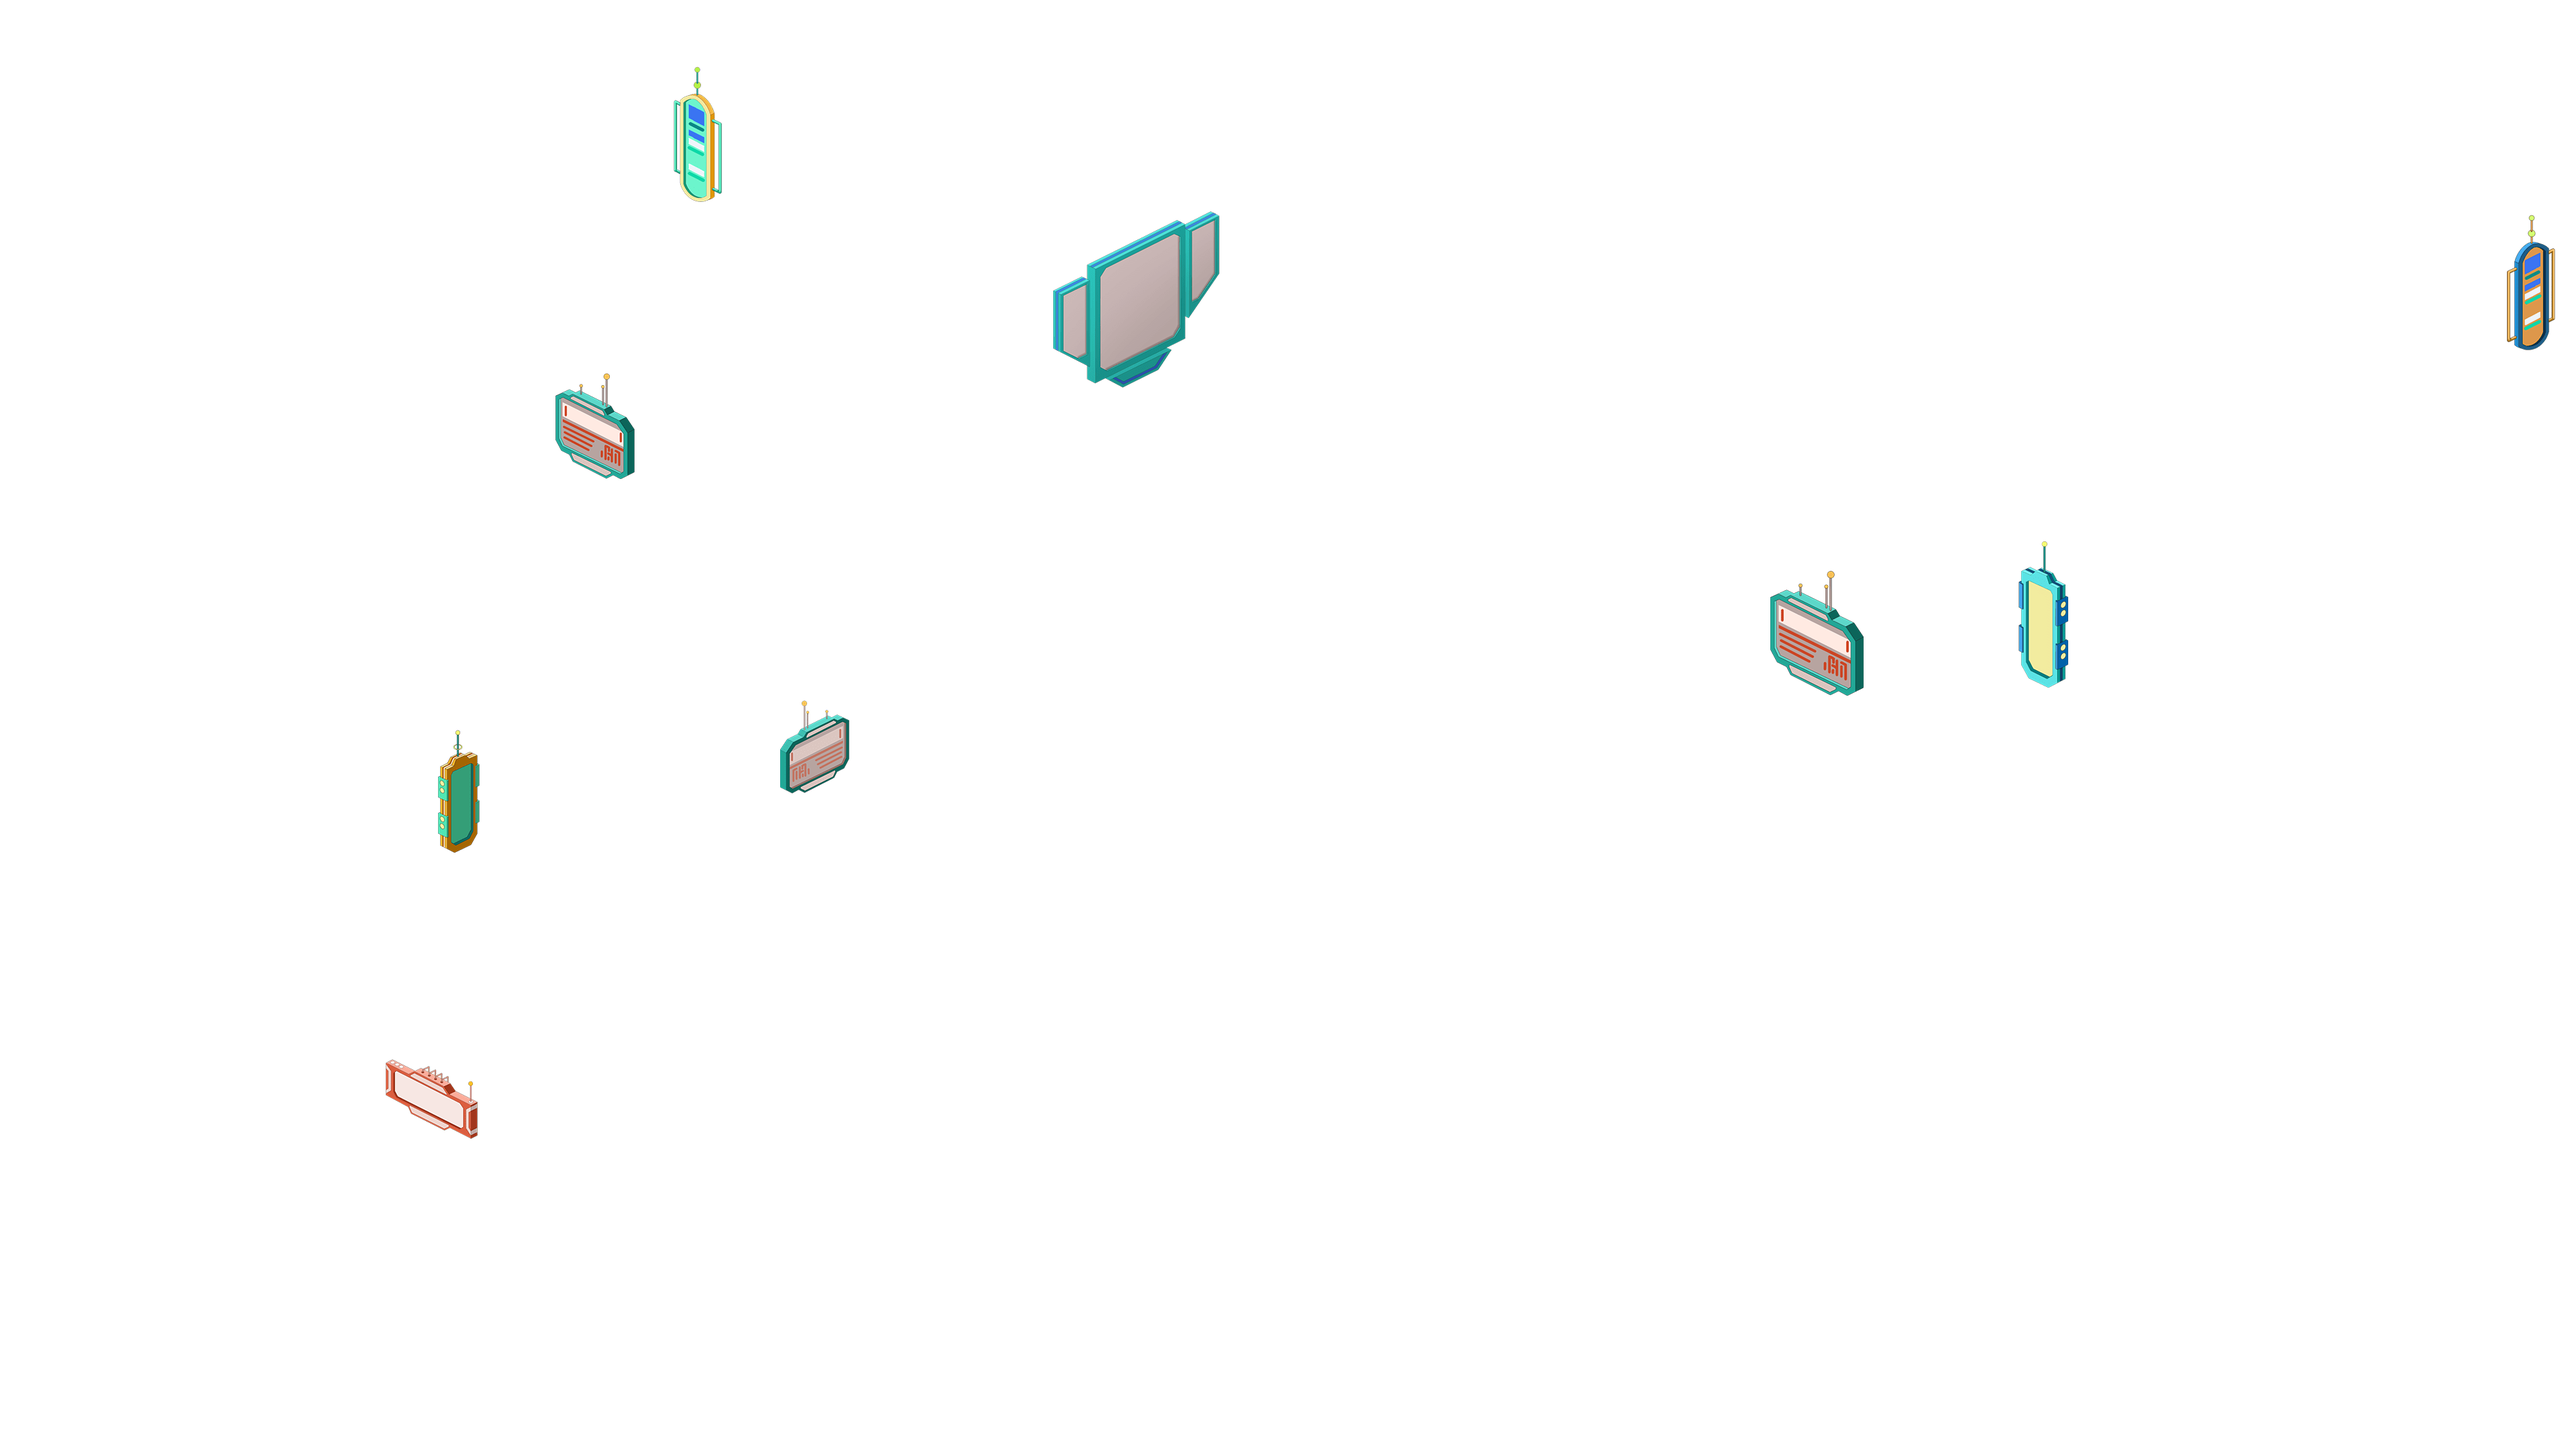
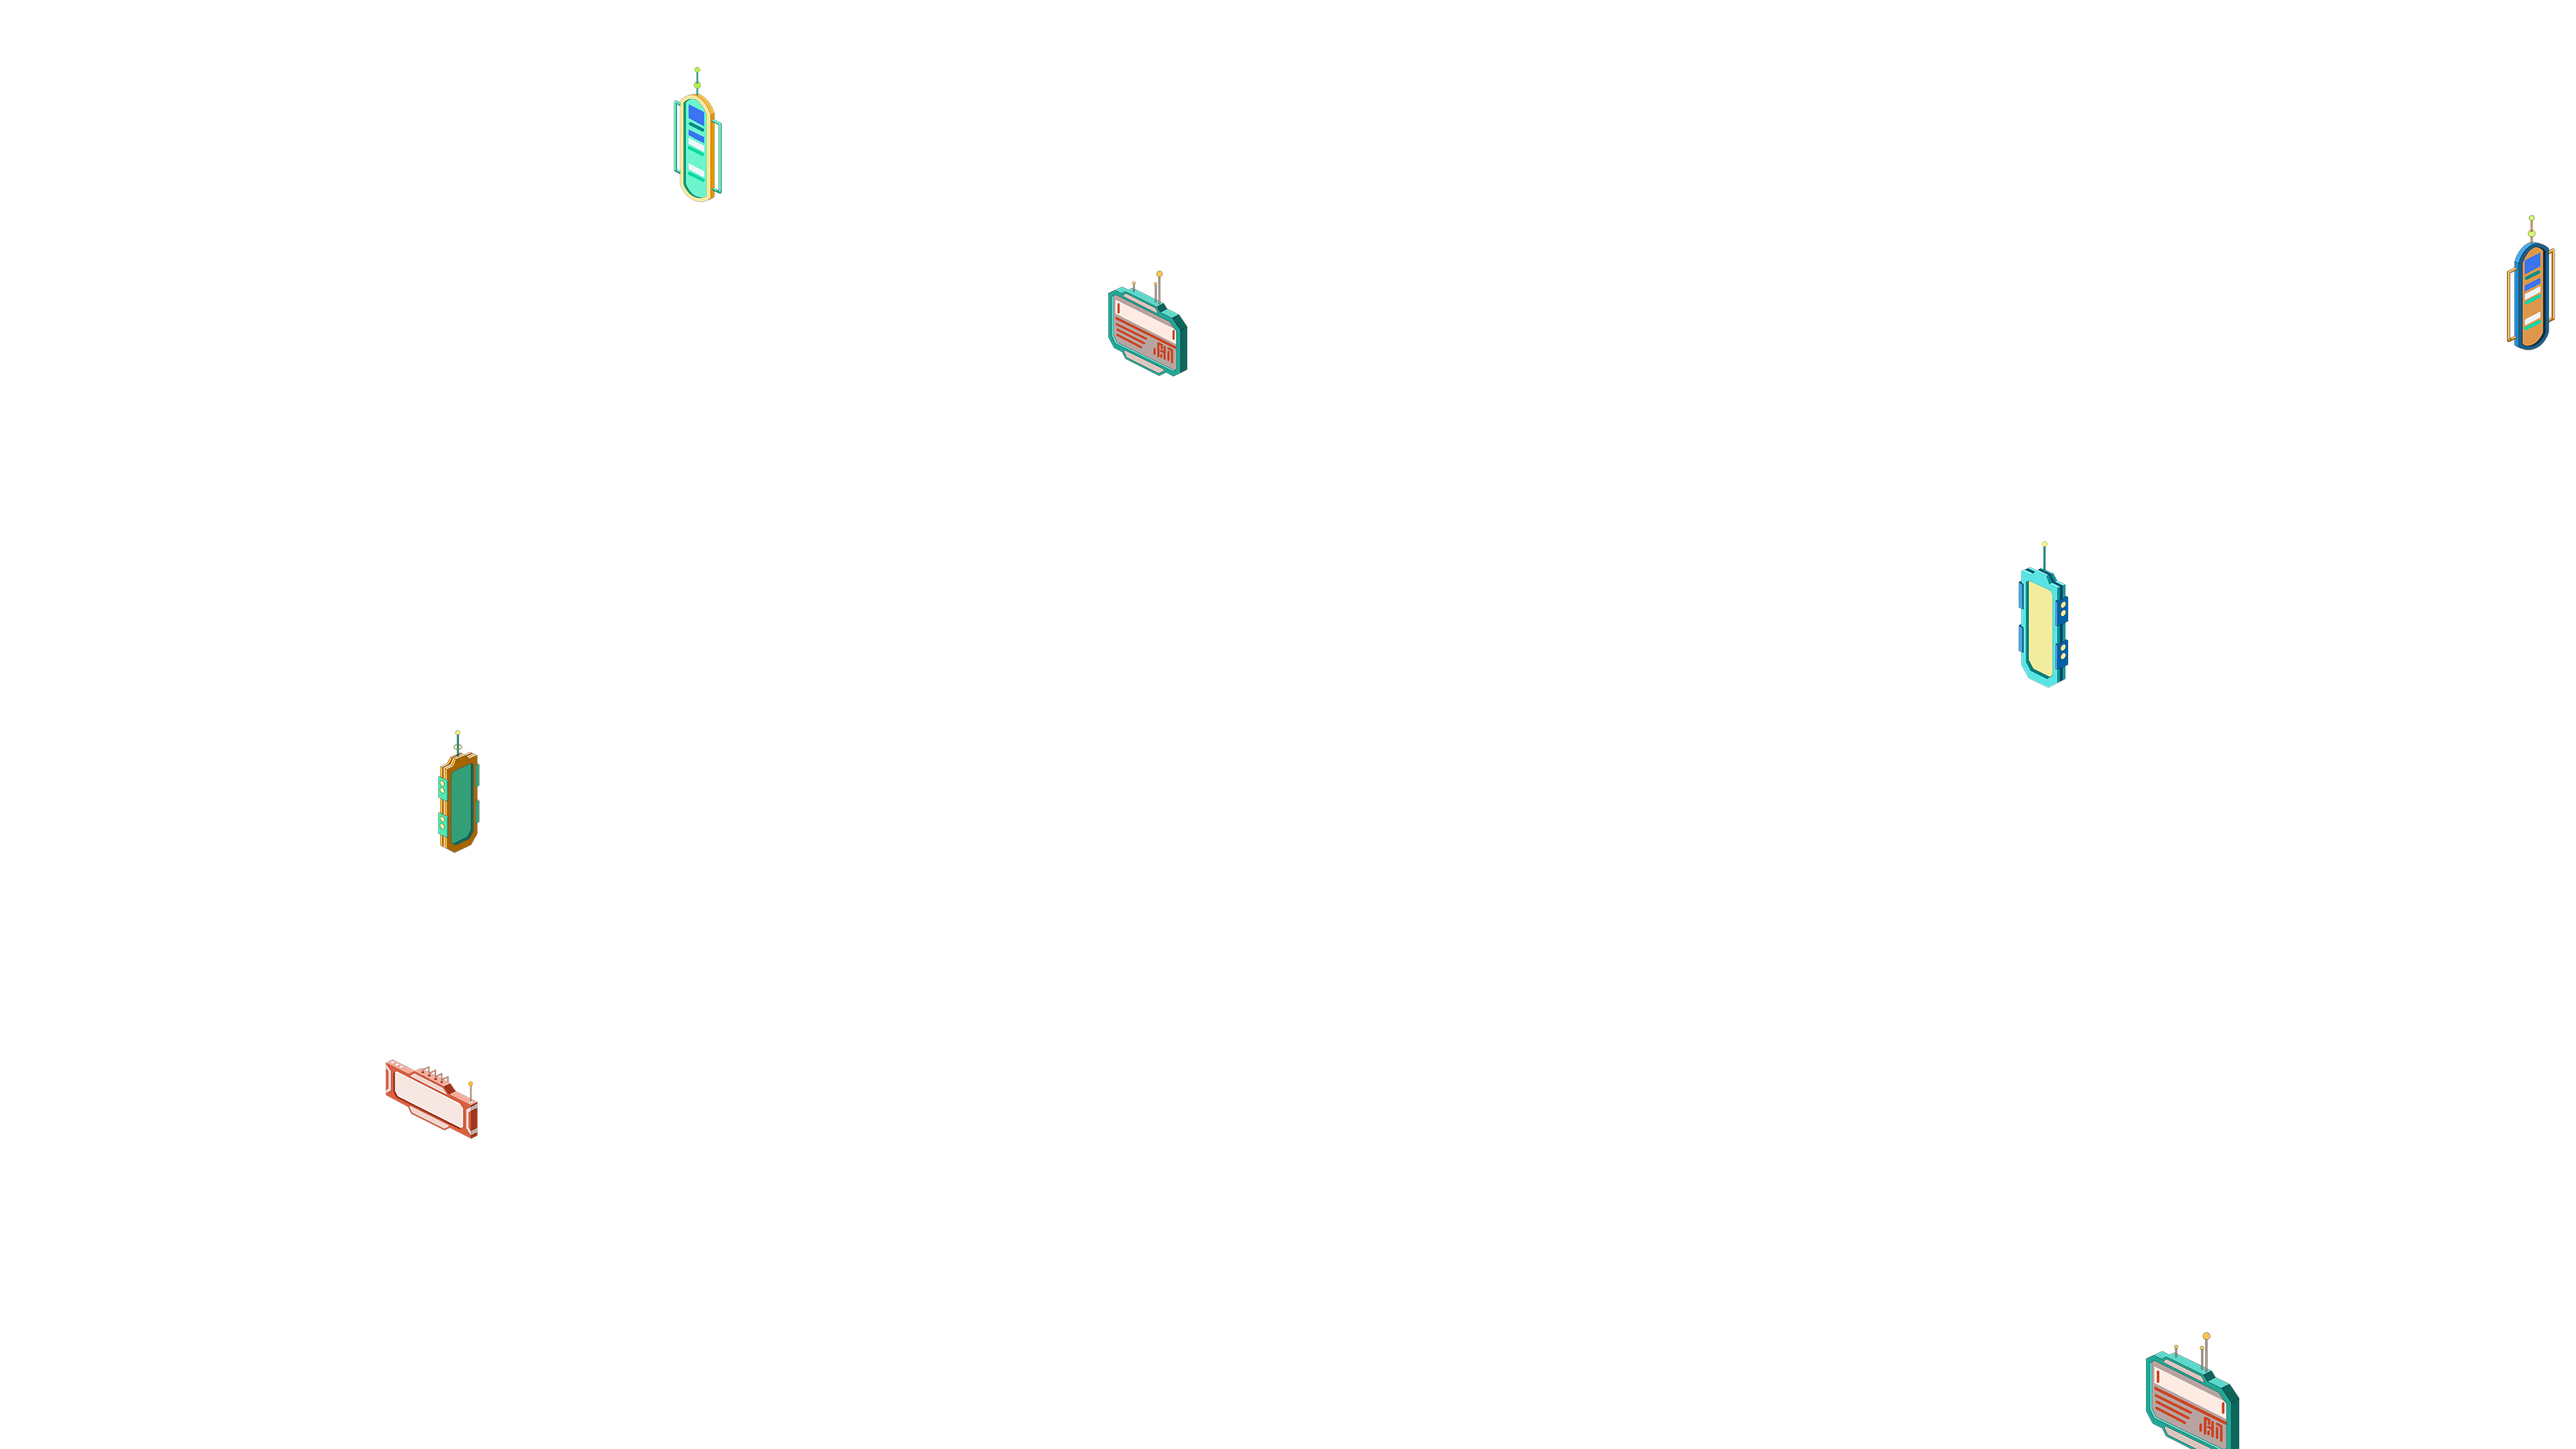
added new cars

diff --git a/src/components/cars/keyframes.ts b/src/components/cars/keyframes.ts
@@ -1,7 +1,14 @@
-import topLeftBg from './topLeft.png';
-import topRightBg from './topRight.png';
-import bottomLeftBg from './bottomLeft.png';
-import bottomRightBg from './bottomRight.png';
+import whiteTopLeft from './whiteTopLeft.png';
+import whiteBottomRight from './whiteBottomRight.png';
+import redTopLeft from './redTopLeft.png';
+import redTopRight from './redTopRight.png';
+import redBottomLeft from './redBottomLeft.png';
+import redBottomRight from './redBottomRight.png';
+import greenTopLeft from './greenTopLeft.png';
+import greenTopRight from './greenTopRight.png';
+import greenBottomLeft from './greenBottomLeft.png';
+import greenBottomRight from './greenBottomRight.png';
+
 import { keyframes } from 'styled-components';
 
 const keyframesCreator = (iterationsArray: IiterationsArray[]) => {
@@ -42,143 +49,143 @@ const keyframesCreator = (iterationsArray: IiterationsArray[]) => {
 };
 
 const iterationsForCarOne = [
-  { animation: [`background: url(${topRightBg}) no-repeat center;`] },
+  { animation: [`background: url(${redTopRight}) no-repeat center;`] },
   {
-    animation: [`background: url(${topRightBg}) no-repeat center;`],
+    animation: [`background: url(${redTopRight}) no-repeat center;`],
     transition: true,
   },
   {
     animation: [
       `transform: translate3d(1275px, -638px, 0);`,
-      `background: url(${bottomRightBg}) no-repeat center;`,
+      `background: url(${redBottomRight}) no-repeat center;`,
     ],
   },
   {
-    animation: [`background: url(${bottomRightBg}) no-repeat center;`],
+    animation: [`background: url(${redBottomRight}) no-repeat center;`],
     transition: true,
   },
   {
     animation: [
       `transform: translate3d(1550px, -500px, 0);`,
-      `background: url(${topRightBg}) no-repeat center;`,
+      `background: url(${redTopRight}) no-repeat center;`,
     ],
   },
   {
-    animation: [`background: url(${topRightBg}) no-repeat center;`],
+    animation: [`background: url(${redTopRight}) no-repeat center;`],
     transition: true,
   },
   {
     animation: [
       `transform: translate3d(1960px, -695px, 0);`,
-      `background: url(${bottomLeftBg}) no-repeat center;`,
+      `background: url(${redBottomLeft}) no-repeat center;`,
     ],
   },
   {
-    animation: [`background: url(${bottomLeftBg}) no-repeat center;`],
+    animation: [`background: url(${redBottomLeft}) no-repeat center;`],
     transition: true,
   },
 
   {
     animation: [
       `transform: translate3d(1550px, -500px, 0);`,
-      `background: url(${topLeftBg}) no-repeat center;`,
+      `background: url(${redTopLeft}) no-repeat center;`,
     ],
   },
   {
-    animation: [`background: url(${topLeftBg}) no-repeat center;`],
+    animation: [`background: url(${redTopLeft}) no-repeat center;`],
     transition: true,
   },
 
   {
     animation: [
       `transform: translate3d(1275px, -638px, 0);`,
-      `background: url(${bottomLeftBg}) no-repeat center;`,
+      `background: url(${redBottomLeft}) no-repeat center;`,
     ],
   },
 
   {
     animation: [
       `transform: translate3d(0, 0, 0);`,
-      `background: url(${bottomLeftBg}) no-repeat center;`,
+      `background: url(${redBottomLeft}) no-repeat center;`,
     ],
   },
 ];
 
 const iterationsForCarTwo = [
-  { animation: [`background: url(${topLeftBg}) no-repeat center`] },
+  { animation: [`background: url(${whiteTopLeft}) no-repeat center`] },
   {
-    animation: [`background: url(${topLeftBg}) no-repeat center`],
+    animation: [`background: url(${whiteTopLeft}) no-repeat center`],
     transition: true,
   },
   {
     animation: [
       `transform: translate3d(-1995px,-997px, 0px);`,
-      `background: url(${bottomRightBg}) no-repeat center;`,
+      `background: url(${whiteBottomRight}) no-repeat center;`,
     ],
   },
   {
     animation: [
       `transform:translate3d(0, 0, 0);`,
-      `background: url(${bottomRightBg}) no-repeat center;`,
+      `background: url(${whiteBottomRight}) no-repeat center;`,
     ],
   },
 ];
 
 const iterationsForCarThree = [
-  { animation: [`background: url(${topLeftBg}) no-repeat center;`] },
+  { animation: [`background: url(${greenTopLeft}) no-repeat center;`] },
   {
-    animation: [`background: url(${topLeftBg}) no-repeat center;`],
+    animation: [`background: url(${greenTopLeft}) no-repeat center;`],
     transition: true,
   },
   {
     animation: [
       `transform: translate3d(-486px,-248px, 0);`,
-      `background: url(${topRightBg}) no-repeat center;`,
+      `background: url(${greenTopRight}) no-repeat center;`,
     ],
   },
   {
-    animation: [`background: url(${topRightBg}) no-repeat center;`],
+    animation: [`background: url(${greenTopRight}) no-repeat center;`],
     transition: true,
   },
   {
     animation: [
       `transform: translate3d(40px,-515px, 0);`,
-      `background: url(${topLeftBg}) no-repeat center;`,
+      `background: url(${greenTopLeft}) no-repeat center;`,
     ],
   },
   {
-    animation: [`background: url(${topLeftBg}) no-repeat center;`],
+    animation: [`background: url(${greenTopLeft}) no-repeat center;`],
     transition: true,
   },
   {
     animation: [
       `transform: translate3d(-233px,-650px, 0);`,
-      `background: url(${bottomRightBg}) no-repeat center;`,
+      `background: url(${greenBottomRight}) no-repeat center;`,
     ],
   },
   {
-    animation: [`background: url(${bottomRightBg}) no-repeat center;`],
+    animation: [`background: url(${greenBottomRight}) no-repeat center;`],
     transition: true,
   },
   {
     animation: [
       `transform: translate3d(40px,-515px, 0);`,
-      `background: url(${bottomLeftBg}) no-repeat center;`,
+      `background: url(${greenBottomLeft}) no-repeat center;`,
     ],
   },
   {
-    animation: [`background: url(${bottomLeftBg}) no-repeat center;`],
+    animation: [`background: url(${greenBottomLeft}) no-repeat center;`],
     transition: true,
   },
   {
     animation: [
       `transform: translate3d(-486px,-248px, 0);`,
-      `background: url(${bottomRightBg}) no-repeat center;`,
+      `background: url(${greenBottomRight}) no-repeat center;`,
     ],
   },
   {
     animation: [
-      `background: url(${bottomRightBg}) no-repeat center;`,
+      `background: url(${greenBottomRight}) no-repeat center;`,
       `transform: translate3d(0px,0px, 0);`,
     ],
   },

diff --git a/src/components/cars/index.tsx b/src/components/cars/index.tsx
@@ -15,8 +15,8 @@ type CarConfigureType = {
 };
 
 const CarBlock = styled.div<CarProps>`
-  width: 57px;
-  height: 50px;
+  width: 44px;
+  height: 41px;
   position: absolute;
   background-size: 100% 100%;
   animation-duration: ${props => props.animDuration || '5s'};
